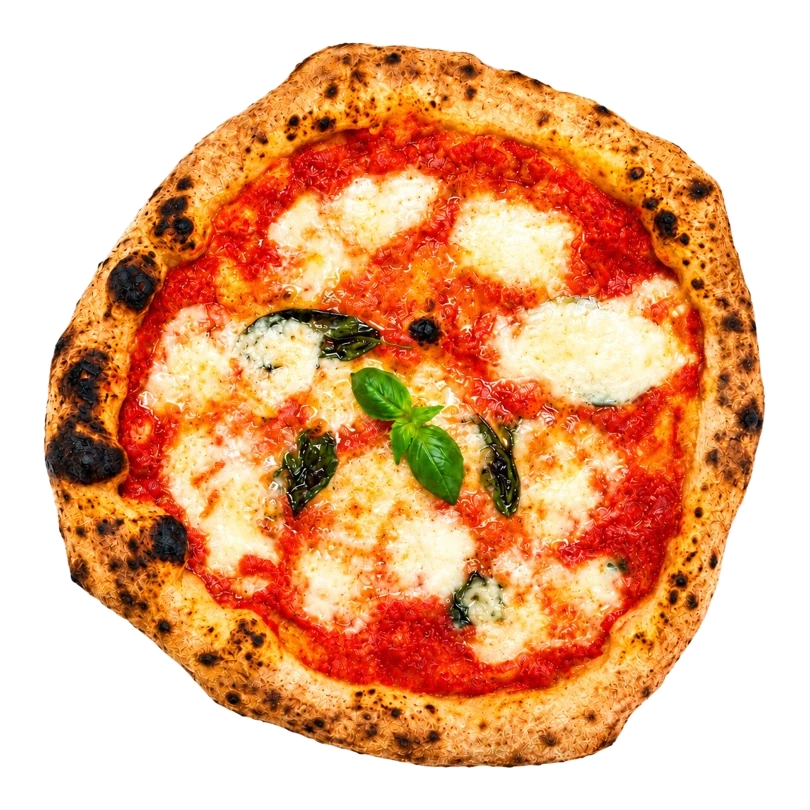
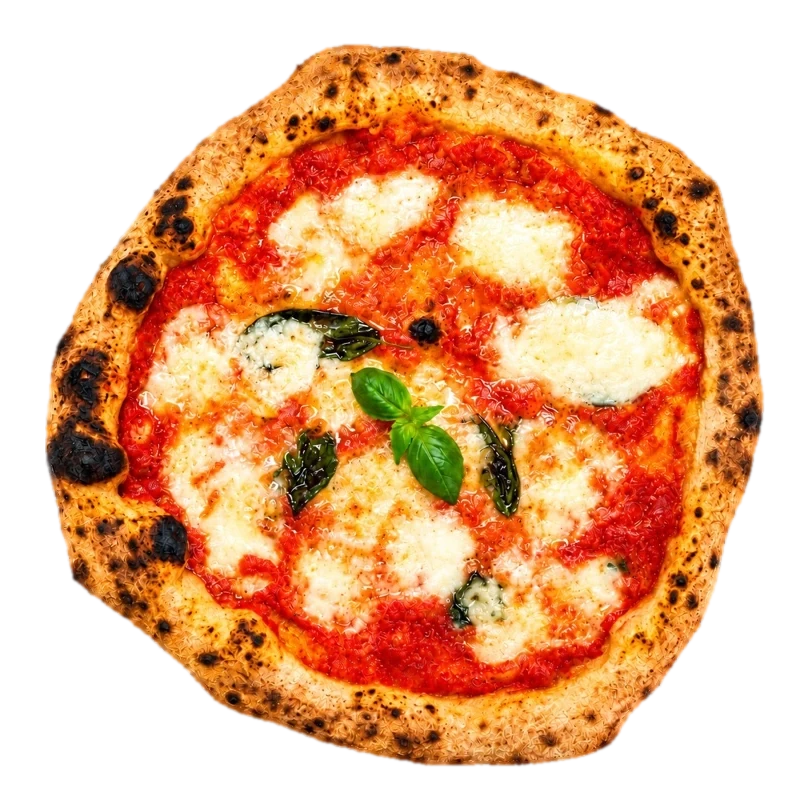
Kleine Anpassungen: Pizzen, Abstände, Kleinschreibung, Formular
- Holzbrett unter den Pizzen entfernt, weissen Rand der Pizzafotos bereinigt, Schatten weicher
- Menülinks landen knapp unter dem Header, weniger Abstand zwischen Pizzen, Preisen und Anfrage
- Header, Buttons und Footer-Links kleingeschrieben
- Lichterkette auf der Weihnachtsmarkt-Karte (Stil im Editor wählbar)
- Unterstreichung bei Maurice und Andrin entfernt, «Jungs» weniger oft
- Formular auf dem Handy kompakter, WhatsApp-Knopf hervorgehoben

diff --git a/src/styles/global.css b/src/styles/global.css
@@ -30,7 +30,7 @@
 
 html {
   scroll-behavior: smooth;
-  scroll-padding-top: calc(var(--nav-h) + 16px);
+  scroll-padding-top: var(--nav-h);
 }
 
 body {
@@ -90,7 +90,11 @@ figure {
 }
 
 .section {
-  padding-block: clamp(64px, 9vw, 112px);
+  --section-pad: clamp(64px, 9vw, 112px);
+  --section-pad-top: var(--section-pad);
+  padding-block: var(--section-pad-top) var(--section-pad);
+  /* Beim Klick auf einen Menüpunkt landet der Titel knapp unter dem Menü statt nach dem ganzen Abstand */
+  scroll-margin-top: calc(clamp(20px, 3vw, 32px) - var(--section-pad-top));
 }
 
 .kicker {
